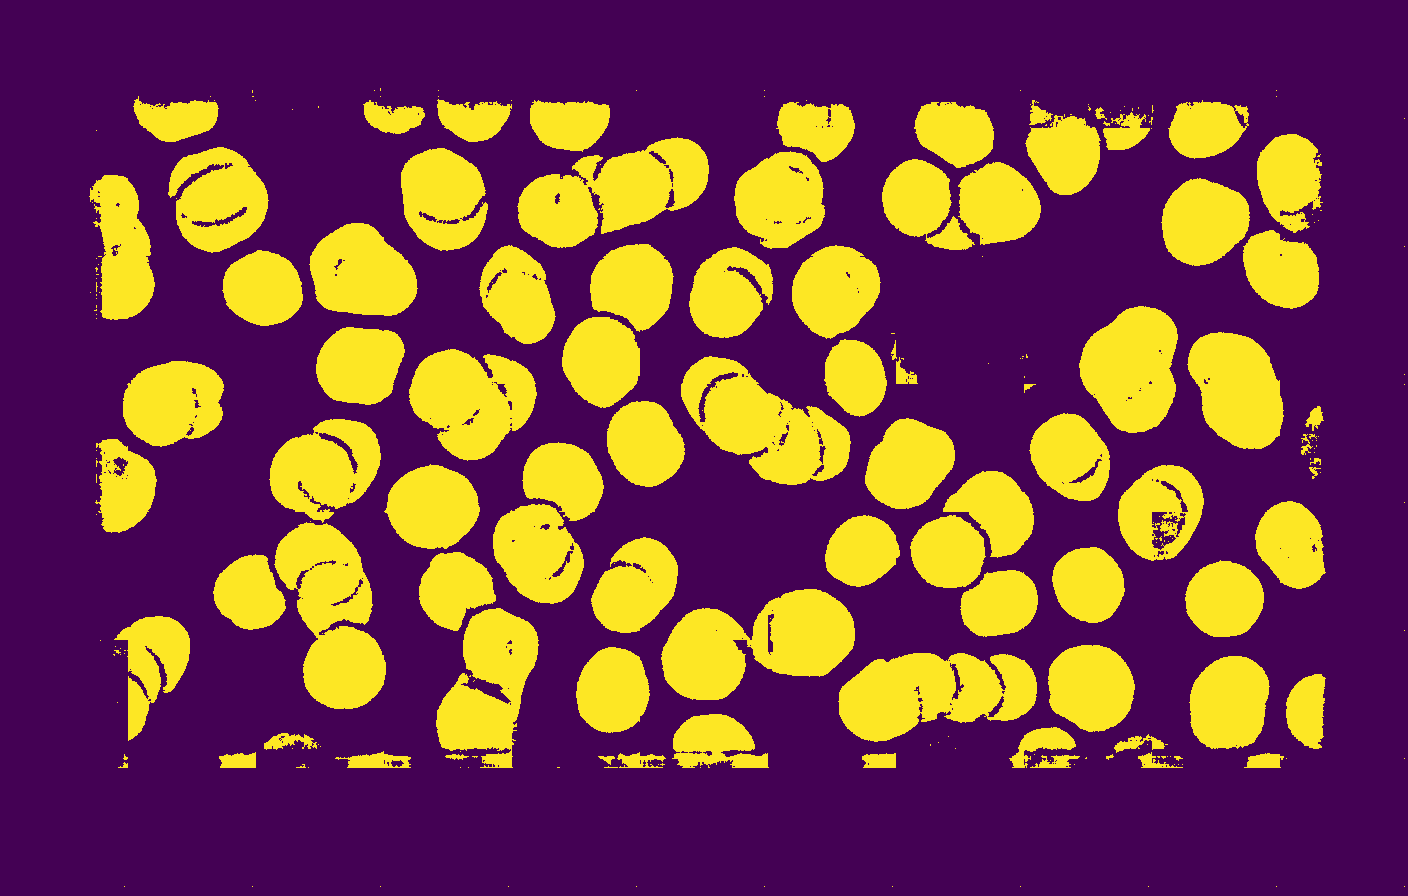
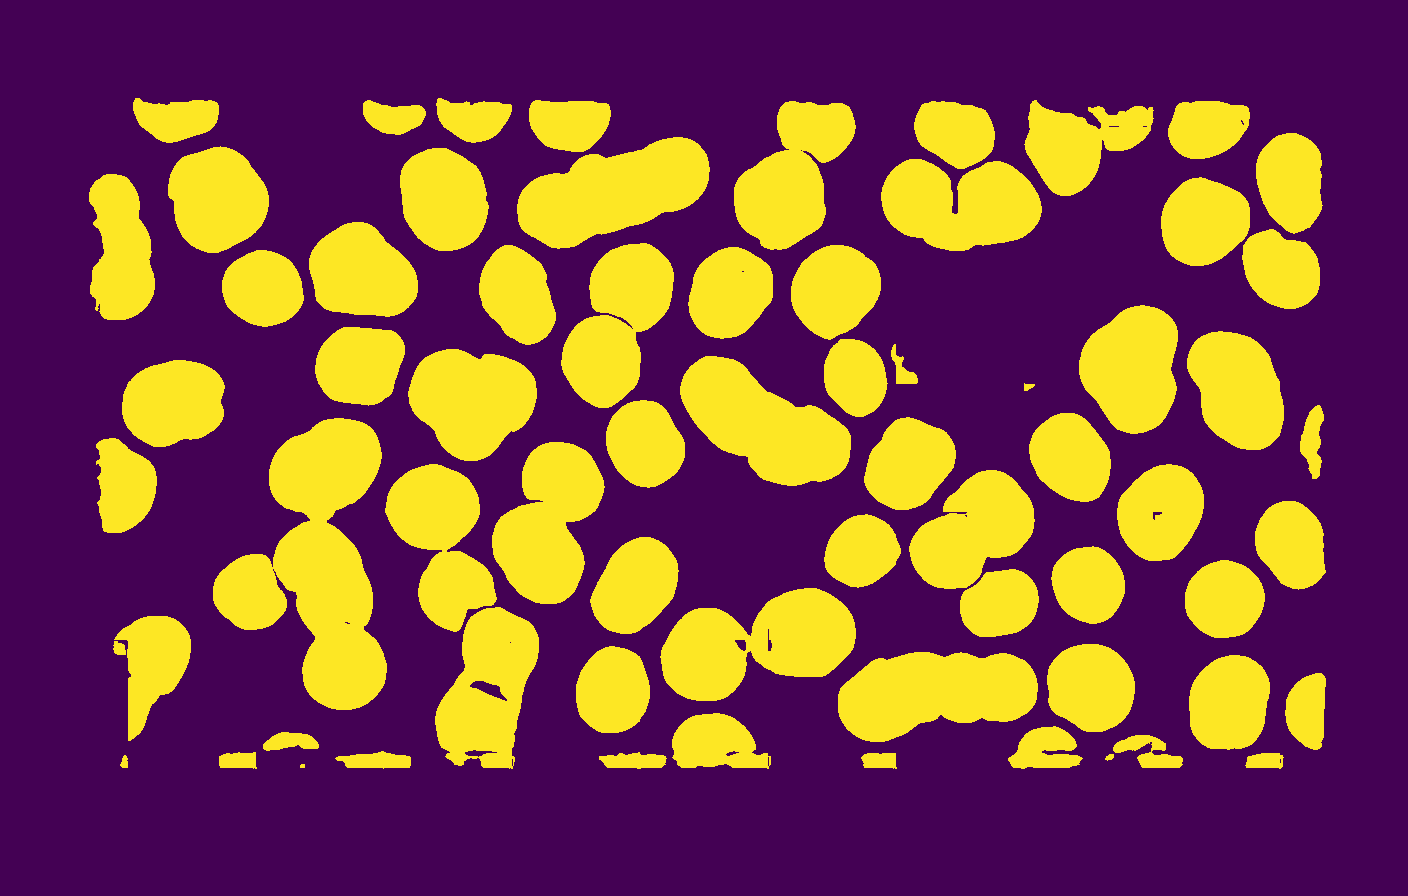
Added denoising to the output images!

diff --git a/src/run.py b/src/run.py
@@ -16,7 +16,7 @@ def generate_train_dataset(img_files):
     def train_gen():
         return data.train_generator(img, mask,
                                     edge=edge,
-                                    padding=100,
+                                    padding=200,
                                     input_size=128,
                                     output_size=128)
 
@@ -70,28 +70,32 @@ def train(model_name='binary_crossentropy'):
 
 # extract number of image chips for an image
 def get_sizes(img,
-              offset=164,
+              padding=100,
               input=128,
               output=128):
+    offset = padding + (output / 2)
     return [(len(np.arange(offset, img[0].shape[0] - input / 2, output)), len(np.arange(offset, img[0].shape[1] - input / 2, output)))]
 
 
 # reshape numpy arrays
 def reshape(img,
             size_x,
-            size_y,
-            type='input'):
-    if type == 'input':
-        return img.reshape(size_x, size_y, 128, 128, 1)
-    elif type == 'output':
-        return img.reshape(size_x, size_y, 128, 128, 1)
-    else:
-        print(f'Invalid type: {type} (input, output)')
+            size_y):
+    return img.reshape(size_x, size_y, 128, 128, 1)
 
 
 # concatenate images
 def concat(imgs):
-    return cv2.vconcat([cv2.hconcat(im_list) for im_list in imgs[:,:,:,:,:]])
+    return cv2.vconcat([cv2.hconcat(im_list) for im_list in imgs[:,:,:,:]])
+
+
+# denoise an image
+def denoise(img):
+    # read the image
+    img = cv2.imread(img)
+    # return the denoised image
+    return cv2.fastNlMeansDenoising(img, 23, 23, 7, 21)
+
 
 
 # predict (segment) image and save a sample output
@@ -126,8 +130,11 @@ def predict(img='Im037_0.jpg',
     new_edge_chips = np.array(output[1])
 
     # reshape chips arrays to be concatenated
-    new_mask_chips = reshape(new_mask_chips, get_sizes(img)[0][0], get_sizes(img)[0][1], 'output')
-    new_edge_chips = reshape(new_edge_chips, get_sizes(img)[0][0], get_sizes(img)[0][1], 'output')
+    new_mask_chips = reshape(new_mask_chips, get_sizes(img)[0][0], get_sizes(img)[0][1])
+    new_edge_chips = reshape(new_edge_chips, get_sizes(img)[0][0], get_sizes(img)[0][1])
+
+    new_mask_chips = np.squeeze(new_mask_chips)
+    new_edge_chips = np.squeeze(new_edge_chips)
 
     # concatenate chips into a single image (mask and edge)
     new_mask = concat(new_mask_chips)
@@ -137,6 +144,15 @@ def predict(img='Im037_0.jpg',
     plt.imsave('output/mask.png', new_mask)
     plt.imsave('output/edge.png', new_edge)
     plt.imsave('output/edge-mask.png', new_mask - new_edge)
+
+    new_mask = denoise('output/mask.png')
+    new_edge = denoise('output/edge.png')
+    edge_mask = denoise('output/edge-mask.png')
+
+    # save predicted mask and edge after denoising
+    plt.imsave('output/mask.png', new_mask)
+    plt.imsave('output/edge.png', new_edge)
+    plt.imsave('output/edge-mask.png', edge_mask)
 
     # organize results into one figure
     fig = plt.figure(figsize=(25, 12), dpi=80)
